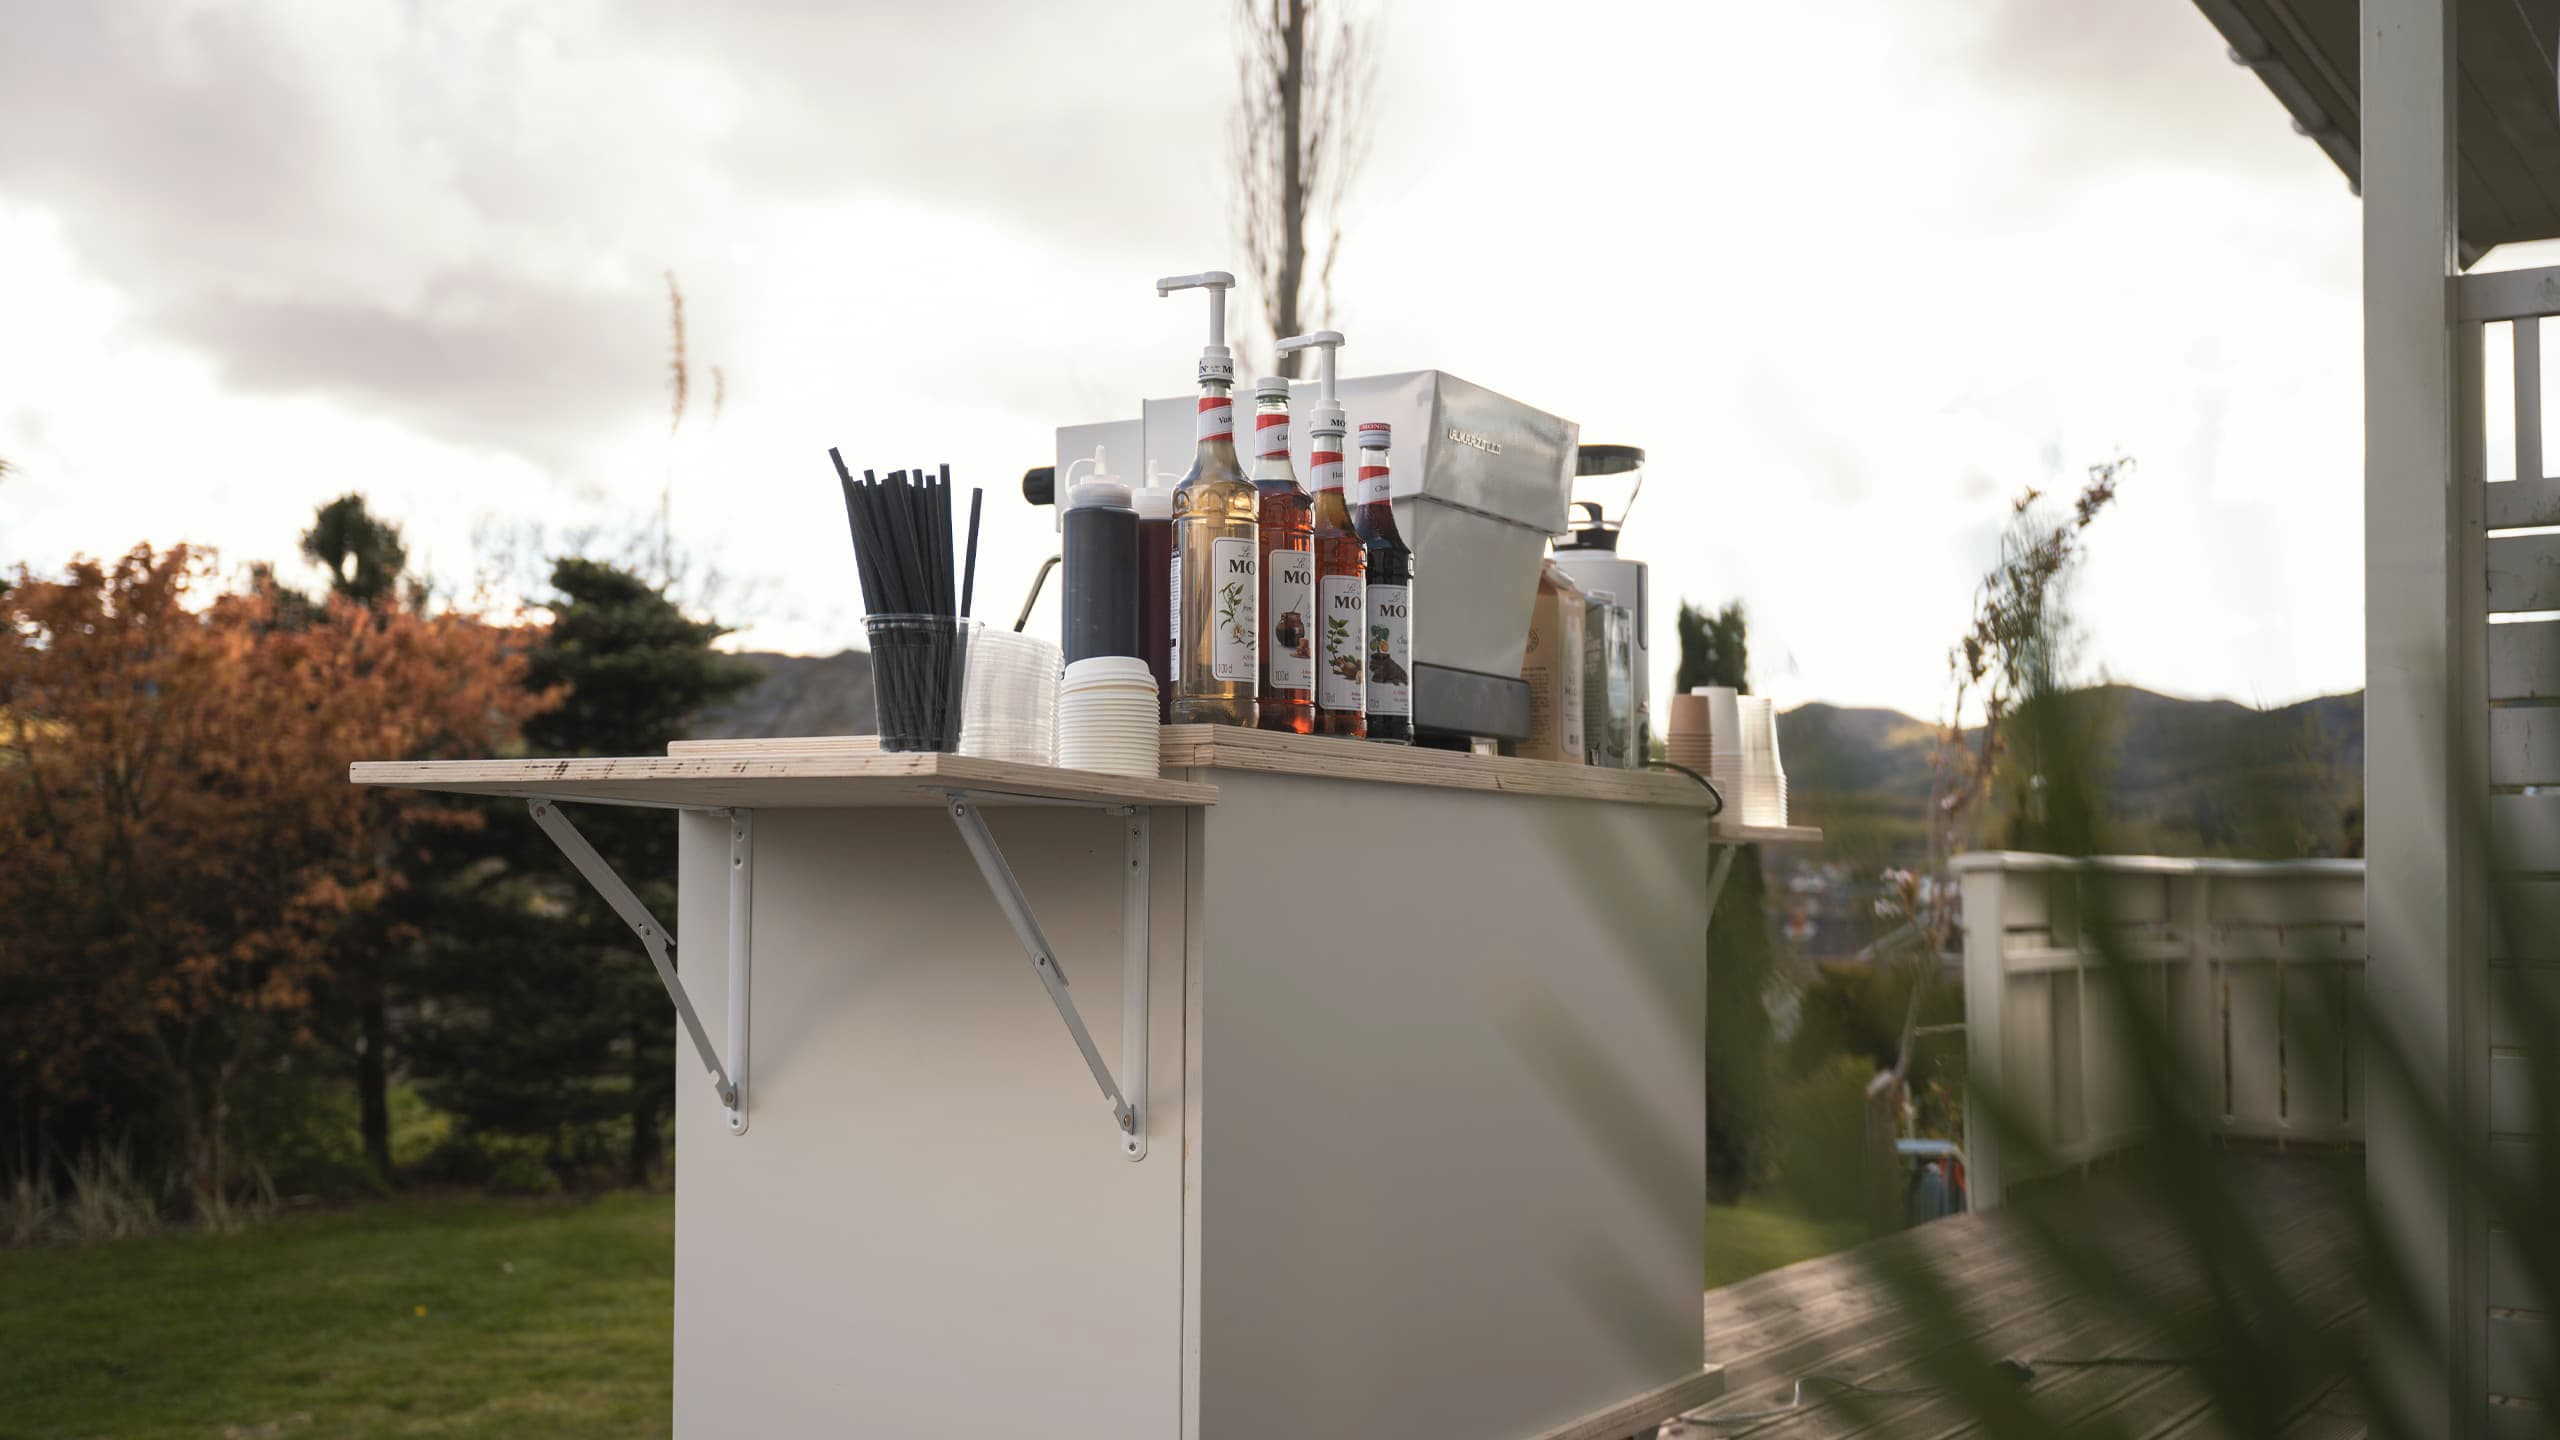
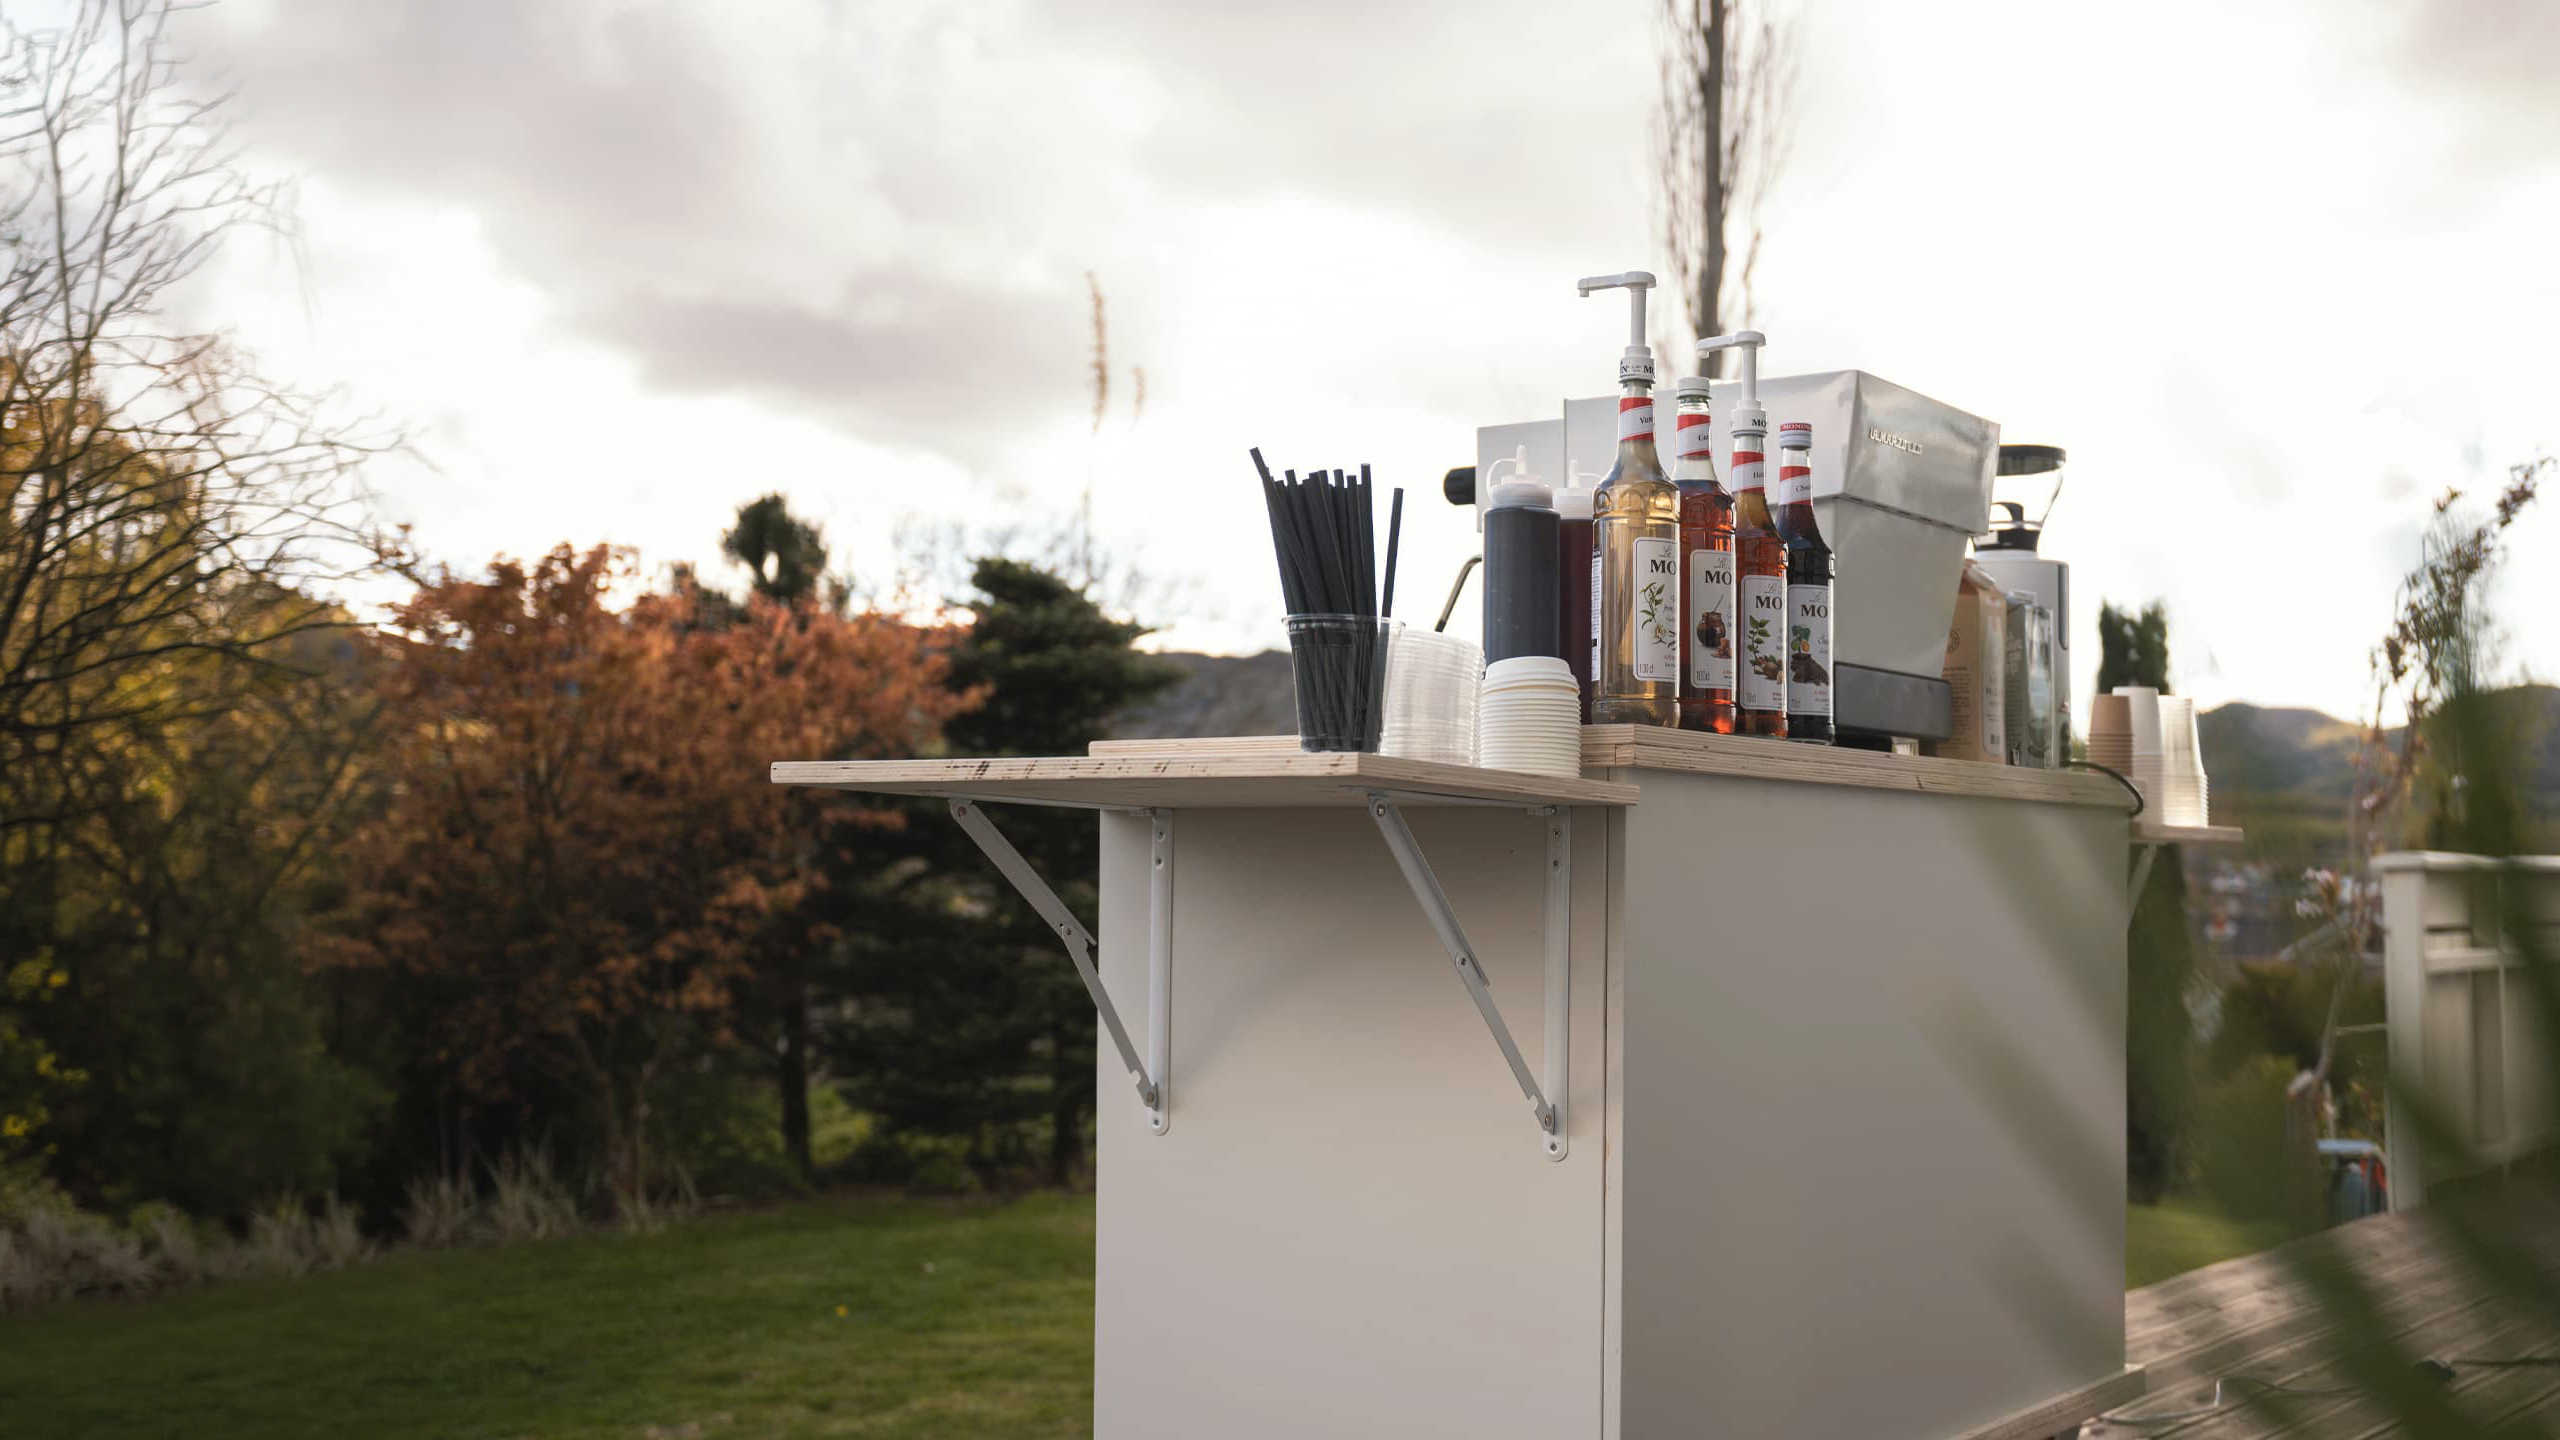
Add files via upload

diff --git a/css/styles.css b/css/styles.css
@@ -248,45 +248,197 @@ nav a:hover {
 }
 
 
-@media (max-width: 35em) {
-    .primary-navigation {
-        gap: 2em;
-        position: fixed;
-        inset: 0 0 0 30%;
+/* ============================
+   Mobile Navigation — Dark
+   ============================ */
 
-        padding: min(20vh, 10rem) 2em;
+@media (max-width: 35em) {
+
+    /* Page backdrop */
+    body:has(.primary-navigation[data-visible="true"])::before {
+        content: "";
+        position: fixed;
+        inset: 0;
+        z-index: 999;
+
+        background: rgba(0, 0, 0, 0.55);
+    }
+
+
+    /* Mobile menu */
+    .primary-navigation {
+        position: fixed;
+        top: 0;
+        right: 0;
+        bottom: 0;
+
+        width: min(82vw, 360px);
+
+        padding: 6rem 1.5rem 2rem;
+
+        display: flex;
         flex-direction: column;
+        gap: 0.25rem;
+
+        margin: 0;
+        list-style: none;
+
+        background: #171514;
+
+        border-left: 1px solid rgba(255, 255, 255, 0.08);
+
+        box-shadow: -16px 0 40px rgba(0, 0, 0, 0.35);
 
         transform: translateX(100%);
-        transition: transform 350ms ease-out;
-        background: var(--cle);
+        transition: transform 350ms ease;
+
+        z-index: 1000;
+        overflow-y: auto;
     }
 
+
+    /* Open state */
     .primary-navigation[data-visible="true"] {
-        transform: translateX(0%);
-        z-index: 1000;
+        transform: translateX(0);
     }
+
+
+    /* Navigation links */
+    .primary-navigation a {
+        display: flex;
+        align-items: center;
+
+        min-height: 54px;
+        padding: 0 1rem;
+
+        color: rgba(255, 255, 255, 0.85);
+
+        font-family: var(--ff-display);
+        font-size: 1.35rem;
+        font-weight: 400;
+
+        border-radius: 8px;
+
+        transition:
+            color 180ms ease,
+            background-color 180ms ease;
+    }
+
+
+    /* Hover / focus */
+    .primary-navigation a:hover,
+    .primary-navigation a:focus-visible {
+        color: #fff;
+        background: rgba(255, 255, 255, 0.06);
+        outline: none;
+    }
+
+
+    /* Active/current link */
+    .primary-navigation a[aria-current="page"] {
+        color: var(--clr-primary-600);
+    }
+
+
+    /* ============================
+       Menu item animation
+       ============================ */
+
+    .primary-navigation[data-visible="true"] li {
+        animation: mobileMenuItem 350ms ease both;
+    }
+
+    .primary-navigation[data-visible="true"] li:nth-child(1) {
+        animation-delay: 50ms;
+    }
+
+    .primary-navigation[data-visible="true"] li:nth-child(2) {
+        animation-delay: 90ms;
+    }
+
+    .primary-navigation[data-visible="true"] li:nth-child(3) {
+        animation-delay: 130ms;
+    }
+
+    .primary-navigation[data-visible="true"] li:nth-child(4) {
+        animation-delay: 170ms;
+    }
+
+    .primary-navigation[data-visible="true"] li:nth-child(5) {
+        animation-delay: 210ms;
+    }
+
+
+    /* ============================
+       Menu toggle
+       ============================ */
 
     .mobile-nav-toggle {
         position: absolute;
-        background: url(/images/burger-menu.svg);
-        background-repeat: repeat;
-        background-repeat: no-repeat;
-        width: 2rem;
-        border: 0;
-        aspect-ratio: 1;
-        top: 1.4rem;
-        right: 1.5rem;
+        top: 1rem;
+        right: 1rem;
+
+        width: 35px;
+        height: 35px;
+
+        display: grid;
+        place-items: center;
+
+        padding: 0;
         z-index: 9999;
-        display: block;
+
+        cursor: pointer;
+
+        background-color: transparent;
+        background-image: url(/images/burger-menu.svg);
+        background-repeat: no-repeat;
+        background-position: center;
+
+        border: 0;
+
+        transition: transform 200ms ease;
     }
 
+
+    /* Close state */
     .mobile-nav-toggle[aria-expanded="true"] {
         background-image: url(/images/close-circle.svg);
+
+        transform: rotate(90deg);
+    }
+
+
+    /* ============================
+       Animations
+       ============================ */
+
+    @keyframes mobileMenuItem {
+        from {
+            opacity: 0;
+            transform: translateX(15px);
+        }
+
+        to {
+            opacity: 1;
+            transform: translateX(0);
+        }
     }
 }
 
 
+/* ============================
+   Reduced Motion
+   ============================ */
+
+@media (prefers-reduced-motion: reduce) {
+
+    .primary-navigation,
+    .primary-navigation li,
+    .mobile-nav-toggle {
+        animation: none;
+        transition: none;
+    }
+}
 
 
 /* ============================
